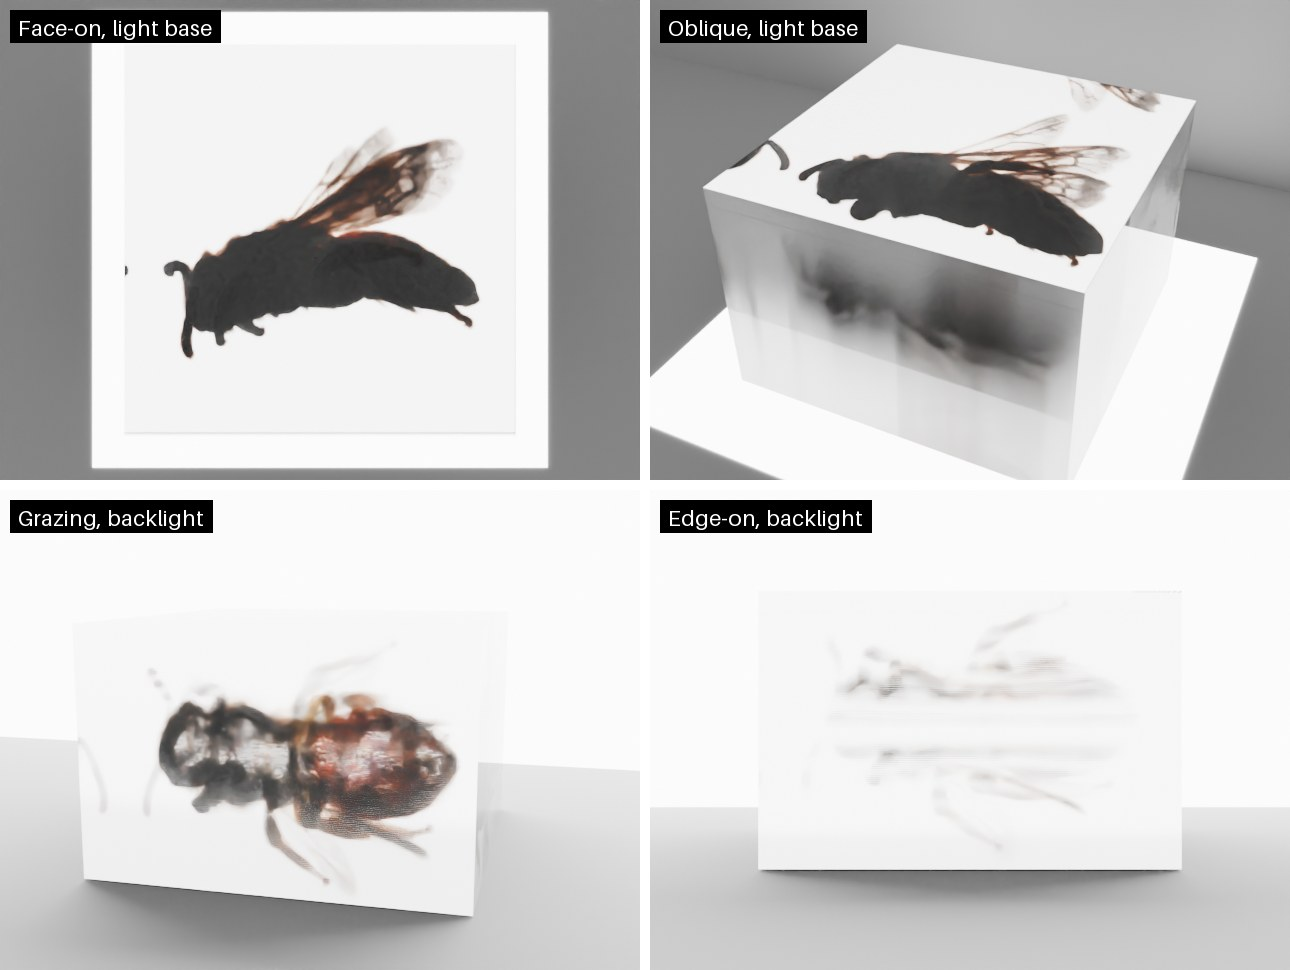
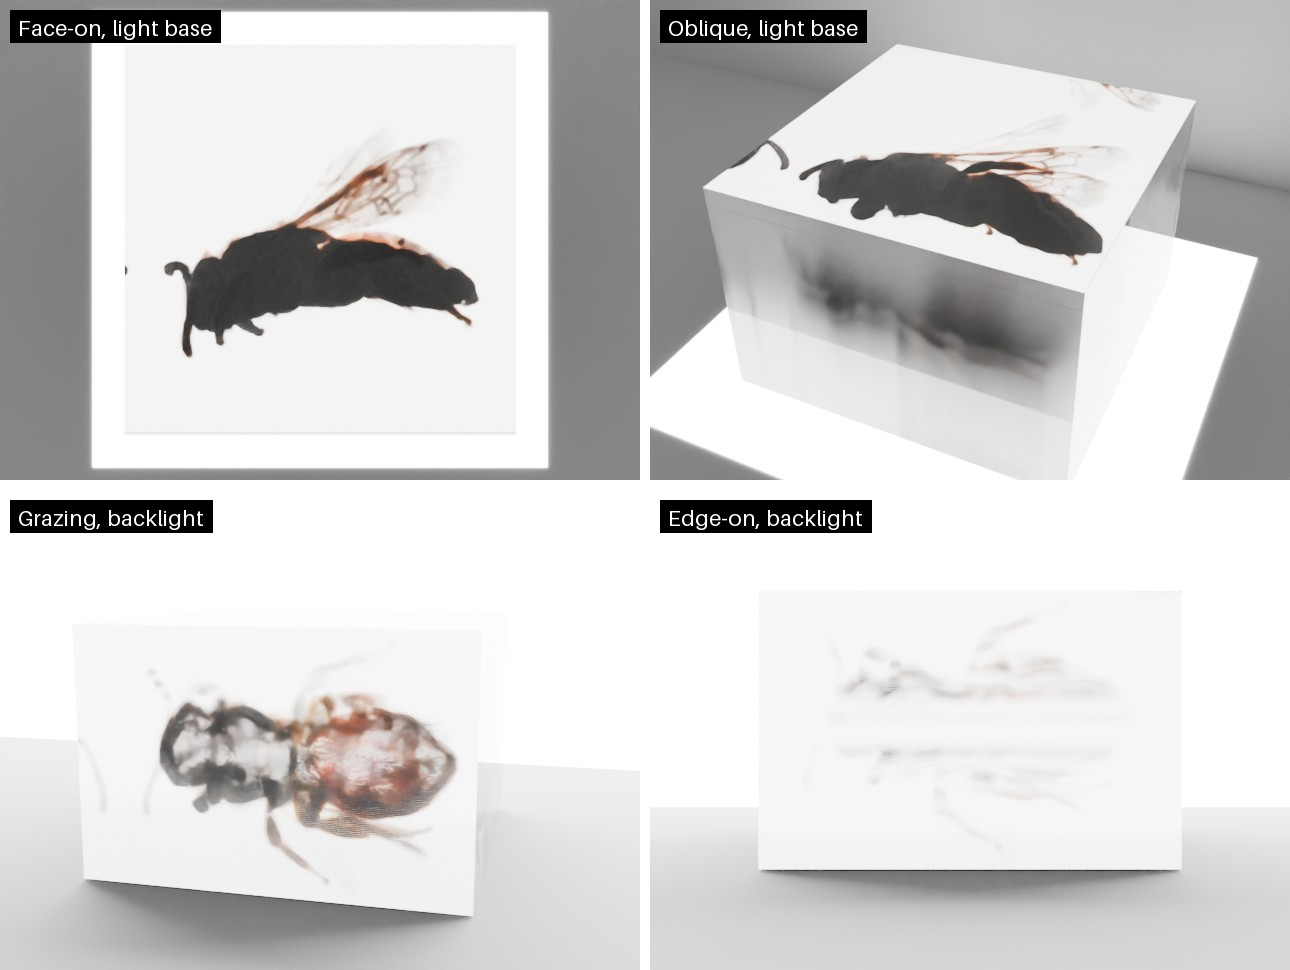
Re-render optics examples with Ink Density 0.3 and Brightness 4.6
Lighting examples are face-on and orthographic at Fast quality with 1 mm film,
matching the look in the viewport; angle and material comparisons use 0.2 mm
film at Fine quality.

diff --git a/README.md b/README.md
@@ -59,6 +59,8 @@ With **Show Stacking** on, the block shows:
 
 ![The bee block face-on and oblique on a light base, and grazing and edge-on with a backlight](docs/images/optical.jpg)
 
+*0.2 mm film (143 sheets), Ink Density 0.3, Brightness 4.6, Fine quality.*
+
 Pick the **Material** first. Each preset sets the refractive indices, haze, side finish (polished) and ink scatter:
 
 | Preset | Film n | Glue n | Interface haze | Ink scatter |
@@ -102,11 +104,11 @@ The splat and the slice overlay are hidden while it shows. **Lighting** picks th
 | **Edge-Lit, Black** | light strips against the side faces, black backdrop | only scattering ink lights up |
 | **Scene Lighting** | none | your own lights and world |
 
-![The 4.13-million-splat bee block face-on under each lighting setup, at the default Brightness of 3](docs/images/lighting.png)
+![The 4.13-million-splat bee block face-on under each lighting setup](docs/images/lighting.png)
 
-*Face-on, looking down through the top of the block. Light Base is the setup made for this view. Backlight is
-meant for side views, so from above it only lights the block indirectly. Without white ink, front and edge
-light on a black backdrop stay dim.*
+*Face-on (orthographic, looking down through the top), Fast quality: 1 mm film (32 sheets), Ink Density 0.3,
+Brightness 4.6. Light Base shows pure transmission, so the dense body still stacks up dark; the other setups
+add light scattered by the pigment.*
 
 Every light is a glowing panel, so its brightness doesn't depend on how far the block box is scaled.
 Panels that stand in for lamps are hidden from the camera. Optics mode uses its own world (background),
